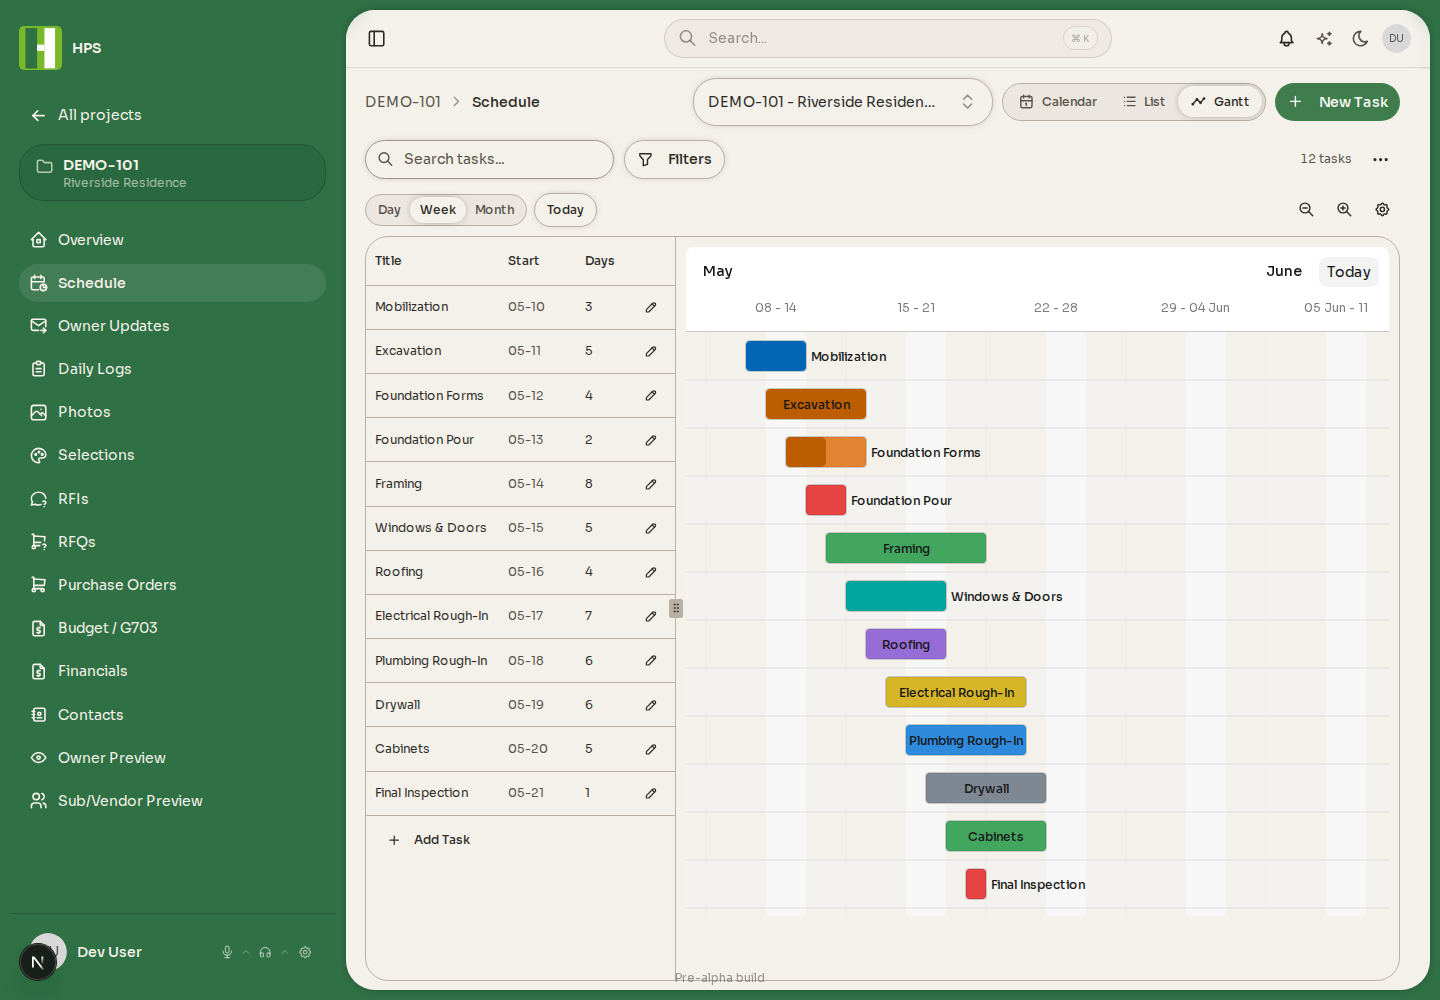
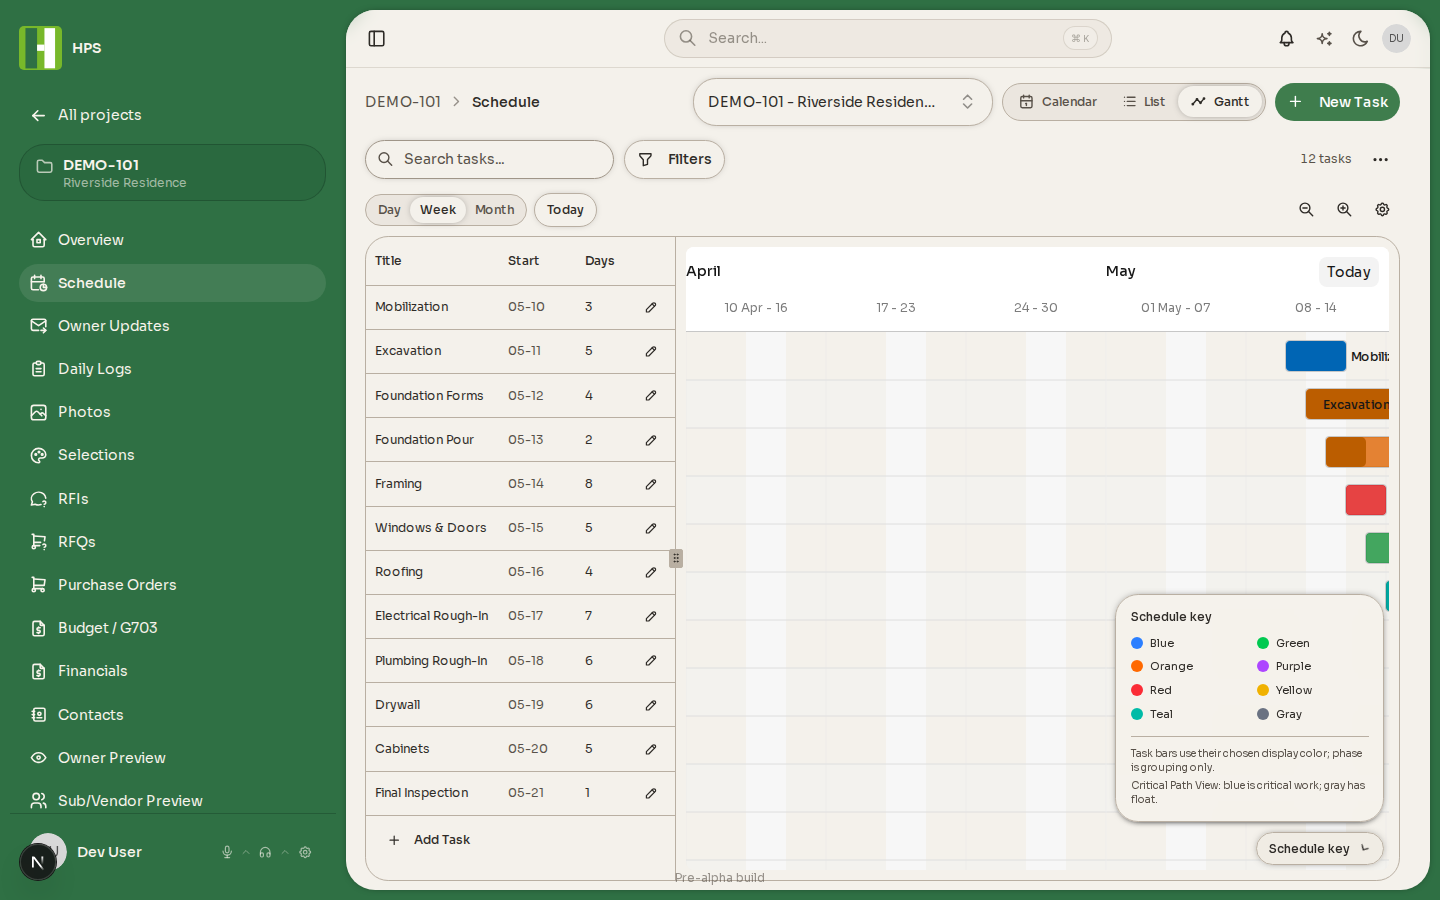
fix(schedule): place key in collapsible gantt overlay

diff --git a/src/components/schedule/schedule-gantt-view.tsx b/src/components/schedule/schedule-gantt-view.tsx
@@ -78,6 +78,7 @@ export function ScheduleGanttView({
     new Set()
   )
   const [showCriticalPath, setShowCriticalPath] = useState(false)
+  const [showScheduleKey, setShowScheduleKey] = useState(false)
   const [taskFormOpen, setTaskFormOpen] = useState(false)
   const [editingTask, setEditingTask] = useState<ScheduleTaskData | null>(
     null
@@ -274,6 +275,47 @@ export function ScheduleGanttView({
     </Table>
   )
 
+  const scheduleKey = (
+    <div className="absolute bottom-3 right-3 z-20 flex flex-col items-end gap-2">
+      {showScheduleKey && (
+        <div className="w-56 rounded-md border bg-background/95 p-3 shadow-lg backdrop-blur">
+          <p className="mb-2 text-xs font-medium">Schedule key</p>
+          <div className="grid grid-cols-2 gap-x-3 gap-y-1.5">
+            {DISPLAY_COLOR_OPTIONS.map((color) => (
+              <div
+                key={color.value}
+                className="flex items-center gap-1.5 text-[11px] text-foreground"
+              >
+                <span
+                  aria-hidden="true"
+                  className={cn("size-2.5 rounded-full", color.buttonClassName)}
+                />
+                {color.label}
+              </div>
+            ))}
+          </div>
+          <div className="mt-3 border-t pt-2 text-[10px] leading-snug text-muted-foreground">
+            <p>Task bars use their chosen display color; phase is grouping only.</p>
+            <p className="mt-1">Critical Path View: blue is critical work; gray has float.</p>
+          </div>
+        </div>
+      )}
+      <Button
+        type="button"
+        variant="outline"
+        size="sm"
+        className="h-7 gap-1.5 bg-background/95 px-2.5 text-xs shadow-sm backdrop-blur"
+        aria-expanded={showScheduleKey}
+        onClick={() => setShowScheduleKey((open) => !open)}
+      >
+        Schedule key
+        <IconChevronDown
+          className={cn("size-3 transition-transform", showScheduleKey && "rotate-180")}
+        />
+      </Button>
+    </div>
+  )
+
   return (
     <div className="flex flex-col flex-1 min-h-0">
       {/* Compact controls row */}
@@ -380,28 +422,6 @@ export function ScheduleGanttView({
                 >
                   Client View
                 </Button>
-                <div className="border-t pt-2 mt-2">
-                  <p className="text-[11px] font-medium text-muted-foreground mb-1.5">
-                    Schedule key
-                  </p>
-                  <div className="grid grid-cols-2 gap-x-2 gap-y-1">
-                    {DISPLAY_COLOR_OPTIONS.map((color) => (
-                      <div
-                        key={color.value}
-                        className="flex items-center gap-1.5 text-[11px] text-foreground"
-                      >
-                        <span
-                          aria-hidden="true"
-                          className={cn("size-2.5 rounded-full", color.buttonClassName)}
-                        />
-                        {color.label}
-                      </div>
-                    ))}
-                  </div>
-                  <p className="mt-2 text-[10px] leading-snug text-muted-foreground">
-                    Task bars use their chosen display color; phase is grouping only. Critical Path View: blue is critical work; gray has float.
-                  </p>
-                </div>
               </div>
             </DropdownMenuContent>
           </DropdownMenu>
@@ -416,7 +436,7 @@ export function ScheduleGanttView({
               {taskTable}
             </div>
           ) : (
-            <div className="border rounded-md flex-1 min-h-0 overflow-hidden p-2">
+            <div className="relative border rounded-md flex-1 min-h-0 overflow-hidden p-2">
               <GanttChart
                 tasks={frappeTasks}
                 viewMode={viewMode}
@@ -426,6 +446,7 @@ export function ScheduleGanttView({
                 criticalPathMode={showCriticalPath}
                 onZoom={handleZoom}
               />
+              {scheduleKey}
             </div>
           )}
         </div>
@@ -443,7 +464,7 @@ export function ScheduleGanttView({
           <ResizableHandle withHandle />
 
           <ResizablePanel defaultSize={70} minSize={40}>
-            <div className="h-full overflow-hidden p-2">
+            <div className="relative h-full overflow-hidden p-2">
               <GanttChart
                 tasks={frappeTasks}
                 viewMode={viewMode}
@@ -453,6 +474,7 @@ export function ScheduleGanttView({
                 criticalPathMode={showCriticalPath}
                 onZoom={handleZoom}
               />
+              {scheduleKey}
             </div>
           </ResizablePanel>
         </ResizablePanelGroup>
